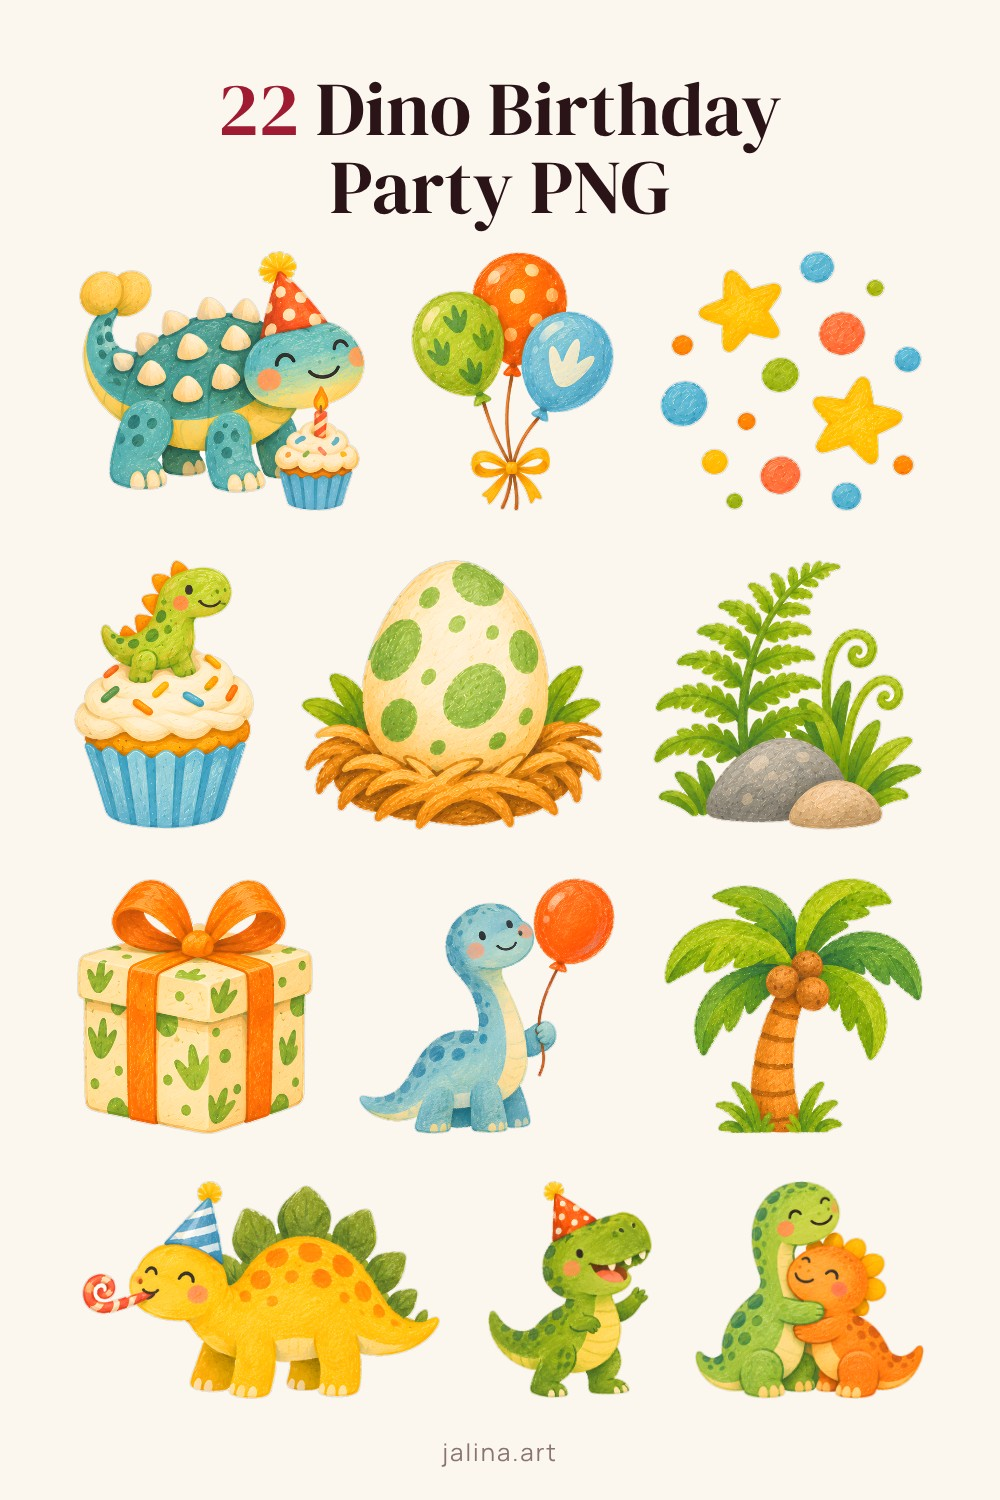
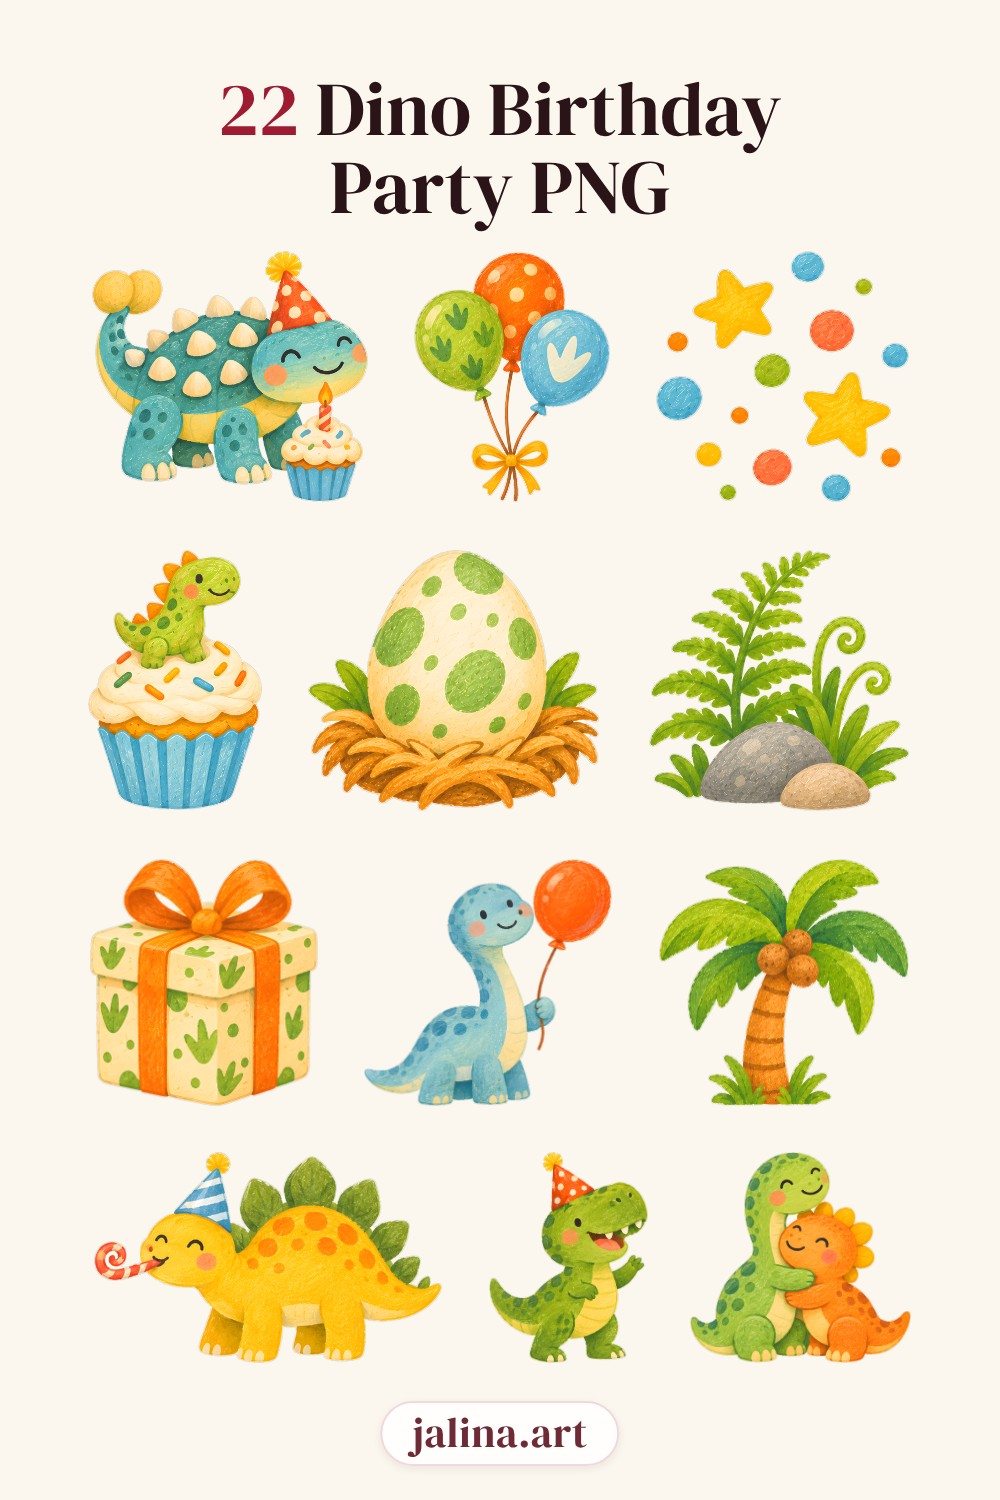
Pin templates v2: readable jalina.art plaque on A/B/C, new template D (mockup in use)
Claude-Session: https://claude.ai/code/session_011DEezwDVCdCrHxyaviwVHj

diff --git a/affiliate/pins/v2/gen.py b/affiliate/pins/v2/gen.py
@@ -1,11 +1,12 @@
 """Pinterest pin templates v2 for jalina.art (1000x1500), based on the Nov 2026 top-pin research:
 product itself, light background, little/no text, no price, number only inside a short headline,
-brand = tiny "jalina.art" at the bottom.
+brand = "jalina.art" plaque (pill, DM Serif 42px) bottom centre, readable at 236 px feed width.
 
   python3 gen.py A <set-id> [-n 12]             set sheet: grid of the set's own elements
   python3 gen.py B <set-id> [index] [--text T]  one hero element (1-based index, see `gen.py list <set-id>`)
   python3 gen.py B post:<slug> [index]          one hero = n-th product image of a blog post (white bg)
   python3 gen.py C <post-slug> [--title T]      numbered list pin from a blog post
+  python3 gen.py D <set-id> [mockup 1-4] [--title T]   "in use": one real mockup as hero + strip of elements
   python3 gen.py list <set-id>                  show element indices of a set
 
 Writes v2-<T>-<id>.html here; render with `node shot.js` -> out/*.jpg.
@@ -30,7 +31,9 @@ CSS = f'''@font-face{{font-family:S;src:url(file://{FONTS}/DMSerifDisplay-400-la
 *{{box-sizing:border-box;margin:0;padding:0}}
 html,body{{width:{W}px;height:{H}px;overflow:hidden}}
 body{{position:relative;font-family:M;color:#2B1418}}
-.brand{{position:absolute;left:0;right:0;bottom:32px;text-align:center;font-family:M;font-size:24px;letter-spacing:2px;color:#8A7470}}
+.brand{{position:absolute;left:50%;bottom:34px;transform:translateX(-50%);padding:6px 30px 9px;border-radius:999px;
+background:rgba(255,255,255,.82);border:2px solid rgba(158,27,50,.16);box-shadow:0 3px 10px rgba(43,20,24,.07);
+font-family:S;font-size:42px;line-height:1.1;letter-spacing:.5px;color:#6E2A36;white-space:nowrap}}
 .hl{{position:absolute;left:60px;right:60px;text-align:center;font-family:S;font-weight:400;line-height:1.02;color:#2B1418;text-wrap:balance}}
 .hl .n{{color:#9E1B32}}
 .abs{{position:absolute}}
@@ -148,7 +151,7 @@ def tmpl_a(sid, n, title=None):
     s = SHOP[sid]
     els = pick_for_sheet(set_elements(sid), n)
     title = title or f'{s["count"]} {s["name"]} PNG'
-    box = (44, 240, W - 88, H - 240 - 96)  # x, y, w, h
+    box = (44, 240, W - 88, H - 240 - 135)  # x, y, w, h
     pos = justified([e[3] for e in els], box[2], box[3], 26)
     body = headline_html(title, 70, 84, 170)
     for e, (x, y, w, h) in zip(els, pos):
@@ -179,12 +182,56 @@ def tmpl_b(target, idx, text=None):
             words = s['name'].split()
             text = s['name'] if len(words) <= 3 else ' '.join(words[-3:])
     top = 230 if text else 110
-    bw, bh = W - 120, H - top - 130
+    bw, bh = W - 120, H - top - 150
     w, h = (bw, bw / ar) if bw / ar <= bh else (bh * ar, bh)
     x, y = (W - w) / 2, top + (bh - h) / 2
     body = (headline_html(text, 80, 78, 110) if text else '')
     body += f'<div class=abs style="left:{x:.0f}px;top:{y:.0f}px;width:{w:.0f}px;height:{h:.0f}px"><img src="file://{img}"></div>'
     return page(body, bg), [label]
+
+
+# mockup-N.jpg in jalina-factory/ready/<set>/ (1200x800): 1 sticker sheet, 2 toppers + tags, 3 tote, 4 tee + bodysuit
+
+
+def tmpl_d(sid, m, title=None, kicker=None, strip=3):
+    from PIL import Image
+    s = SHOP[sid]
+    mp = f'{FACTORY}/{sid}/mockup-{m}.jpg'
+    if not os.path.exists(mp):
+        sys.exit(f'no {mp}')
+    mw, mh = Image.open(mp).size
+    title = title or f'{s["count"]} {s["name"]} PNG'
+    kicker = kicker or ''  # mockups already carry their own use label; kicker only on request
+    body = ''
+    top = 64
+    if kicker:
+        body += f'<div class=kick style="top:{top}px">{esc(kicker)}</div>'
+        top += 66
+    body += headline_html(title, top, 80, 170)
+    # hero mockup: whole image, never cropped, rounded card; stack hero + strip centred
+    # between the headline (2 lines max) and the brand plaque
+    hw = W - 2 * 24
+    hh = hw * mh / mw
+    y0, y1 = top + 180, H - 120
+    els = pick_for_sheet(set_elements(sid), strip) if strip > 0 else []
+    ars = [e[3] for e in els]
+    gap = 40
+    sh = 0 if not els else min(320, (W - 100 - gap * (len(els) - 1)) / sum(ars), max(0, y1 - y0 - hh - 90))
+    g = (y1 - y0 - hh - sh) / (3 if sh >= 140 else 2)
+    hy = y0 + g
+    body += f'<div class="abs hero" style="left:24px;top:{hy:.0f}px;width:{hw:.0f}px;height:{hh:.0f}px"><img src="file://{mp}"></div>'
+    used = [os.path.basename(mp)]
+    if sh >= 140:  # strip of 3-4 set elements under the mockup
+        x = (W - (sum(ars) * sh + gap * (len(els) - 1))) / 2
+        y = hy + hh + g
+        for e in els:
+            w = e[3] * sh
+            body += f'<div class=abs style="left:{x:.0f}px;top:{y:.0f}px;width:{w:.0f}px;height:{sh:.0f}px"><img src="file://{e[1]}"></div>'
+            x += w + gap
+        used += [e[0] for e in els]
+    extra = ('.hero{border-radius:22px;overflow:hidden;box-shadow:0 10px 30px rgba(43,20,24,.13)}'
+             '.kick{position:absolute;left:0;right:0;text-align:center;font-family:C;font-size:54px;color:#9E1B32;line-height:1}')
+    return page(body, '#FBF6EE', extra), used
 
 
 # ---------- blog posts ----------
@@ -229,7 +276,7 @@ def tmpl_c(slug, title=None, bg='#FCEFEA'):
     shown = items[:8] if len(items) >= 8 else items[:6] if len(items) >= 6 else items
     cols = 1 if len(shown) <= 2 else 2
     rows = math.ceil(len(shown) / cols)
-    top, bottom, gap, side = 250, 100, 18, 50
+    top, bottom, gap, side = 250, 135, 18, 50
     th = (H - top - bottom - gap * (rows - 1)) / rows
     tw = min((W - 2 * side - gap * (cols - 1)) / cols, th * 1.5)
     th = tw / 1.5
@@ -248,12 +295,14 @@ def tmpl_c(slug, title=None, bg='#FCEFEA'):
 
 def main():
     ap = argparse.ArgumentParser(description=__doc__, formatter_class=argparse.RawDescriptionHelpFormatter)
-    ap.add_argument('template', choices=['A', 'B', 'C', 'list'])
+    ap.add_argument('template', choices=['A', 'B', 'C', 'D', 'list'])
     ap.add_argument('target')
     ap.add_argument('index', nargs='?', type=int)
     ap.add_argument('-n', type=int, default=12, help='A: number of elements (9-20)')
-    ap.add_argument('--title', help='A/C: override headline (keep it true: number = real count)')
+    ap.add_argument('--title', help='A/C/D: override headline (keep it true: number = real count)')
     ap.add_argument('--text', help='B: 0-3 words over the hero ("" = no text)')
+    ap.add_argument('--strip', type=int, default=3, help='D: set elements under the mockup (0 = none, 3-4)')
+    ap.add_argument('--kicker', help='D: small Caveat line above the headline ("" = none)')
     ap.add_argument('--bg', default='#FCEFEA', help='C: light/pastel background')
     a = ap.parse_args()
     if a.template == 'list':
@@ -266,6 +315,10 @@ def main():
     elif a.template == 'B':
         doc, used = tmpl_b(a.target, a.index, a.text)
         name = f'v2-B-{a.target.replace("post:", "post-")}' + (f'-{a.index}' if a.index else '')
+    elif a.template == 'D':
+        m = a.index or 1
+        doc, used = tmpl_d(a.target, m, a.title, a.kicker, a.strip)
+        name = f'v2-D-{a.target}-m{m}'
     else:
         doc, used = tmpl_c(a.target, a.title, a.bg)
         name = f'v2-C-{a.target}'

diff --git a/affiliate/pins/v2/README.md b/affiliate/pins/v2/README.md
@@ -1,13 +1,19 @@
 # Pin templates v2 (jalina.art, 1000x1500)
 
 Built on the Nov 2026 top-pin research (62% product only, 59% no text, 65% light backgrounds,
-0% prices, numbers only inside a short headline, brand = small URL at the bottom).
+0% prices, numbers only inside a short headline) and Pinterest's creative guidance (brand clearly visible
+but not overpowering, product front and center / shown in use, key message on top, 2:3).
+
+**Brand plaque (all templates, Nov 12 2026):** `jalina.art` in DM Serif 42 px on a soft white pill,
+bottom centre (`.brand` in `gen.py`) — readable at feed size (236 px wide ≈ 10 px text), never covers
+the product. Layouts keep ~130 px free at the bottom for it.
 
 | Template | Look | Use for |
 |---|---|---|
-| **A** set sheet | cream background, headline "`<count> <set name> PNG`" (number in cherry), 12 elements of the set in justified rows (never cropped), tiny `jalina.art` | own clipart sets → `/shop/<slug>/` or Payhip |
-| **B** one hero | one big element on a light transparency checkerboard (or a post's product image on white), 0–3 words, tiny `jalina.art` | own sets, single-product pins |
-| **C** numbered list | blush background, headline "`<N> <topic>`", 2×4 grid of the post's numbered product images (max 8 shown, N = real item count), tiny `jalina.art` | blog articles |
+| **A** set sheet | cream background, headline "`<count> <set name> PNG`" (number in cherry), 12 elements of the set in justified rows (never cropped), brand plaque | own clipart sets → `/shop/<slug>/` or Payhip |
+| **B** one hero | one big element on a light transparency checkerboard (or a post's product image on white), 0–3 words, brand plaque | own sets, single-product pins |
+| **C** numbered list | blush background, headline "`<N> <topic>`", 2×4 grid of the post's numbered product images (max 8 shown, N = real item count), brand plaque | blog articles |
+| **D** in use | cream background, headline "`<count> <set name> PNG`", one real mockup of the set (`jalina-factory/ready/<set>/mockup-N.jpg`, shown whole in a rounded card), strip of 3 set elements under it, brand plaque. No price, no dark blocks | own sets → `/shop/<slug>/` or Payhip |
 
 ## Usage
 ```bash
@@ -17,11 +23,17 @@ python3 gen.py A 19-elegant-wedding          # -> v2-A-19-elegant-wedding.html  
 python3 gen.py B 21-dino-birthday 3          # element #3 as hero (--text "" for no text)
 python3 gen.py B post:christmas-tumbler-wrap 2   # 2nd product image of a post, white bg
 python3 gen.py C christmas-tumbler-wrap      # list pin (--title "8 Christmas Tumbler Wraps" to override)
+python3 gen.py D 21-dino-birthday 2          # mockup-2 as hero -> v2-D-21-dino-birthday-m2.html
+                                             # --title "Make your own dino party toppers" --strip 0|3|4 --kicker "..."
 node shot.js [prefix]                        # renders *.html -> out/*.jpg
 ```
 - Headlines for A/B come from `jalina-blog/src/shop.json` (`name`, `count`); C counts the post's
   `## N. Title` sections that have an image. Keep overrides true (number = real count), no prices.
 - A picks elements automatically: skips lettering/text PNGs and very wide garlands, spreads the
   pick over the set. B without index takes the first square-ish non-lettering element.
+- D mockups (1200×800, check visually per set): 1 sticker sheet, 2 toppers + gift tags, 3 tote bag,
+  4 t-shirt + baby bodysuit. They already carry their own use label + "made with" badge, so the pin adds
+  only the headline (optional Caveat `--kicker`). A use-case `--title` must stay true to the mockup and
+  shop.json/LISTING.md.
 - Light/ivory elements: prefer A (cream) over B (checkerboard) if they get lost.
 - `samples/` — reference renders. `out/`, `*.html` are not committed (HTML points to the local cache).
